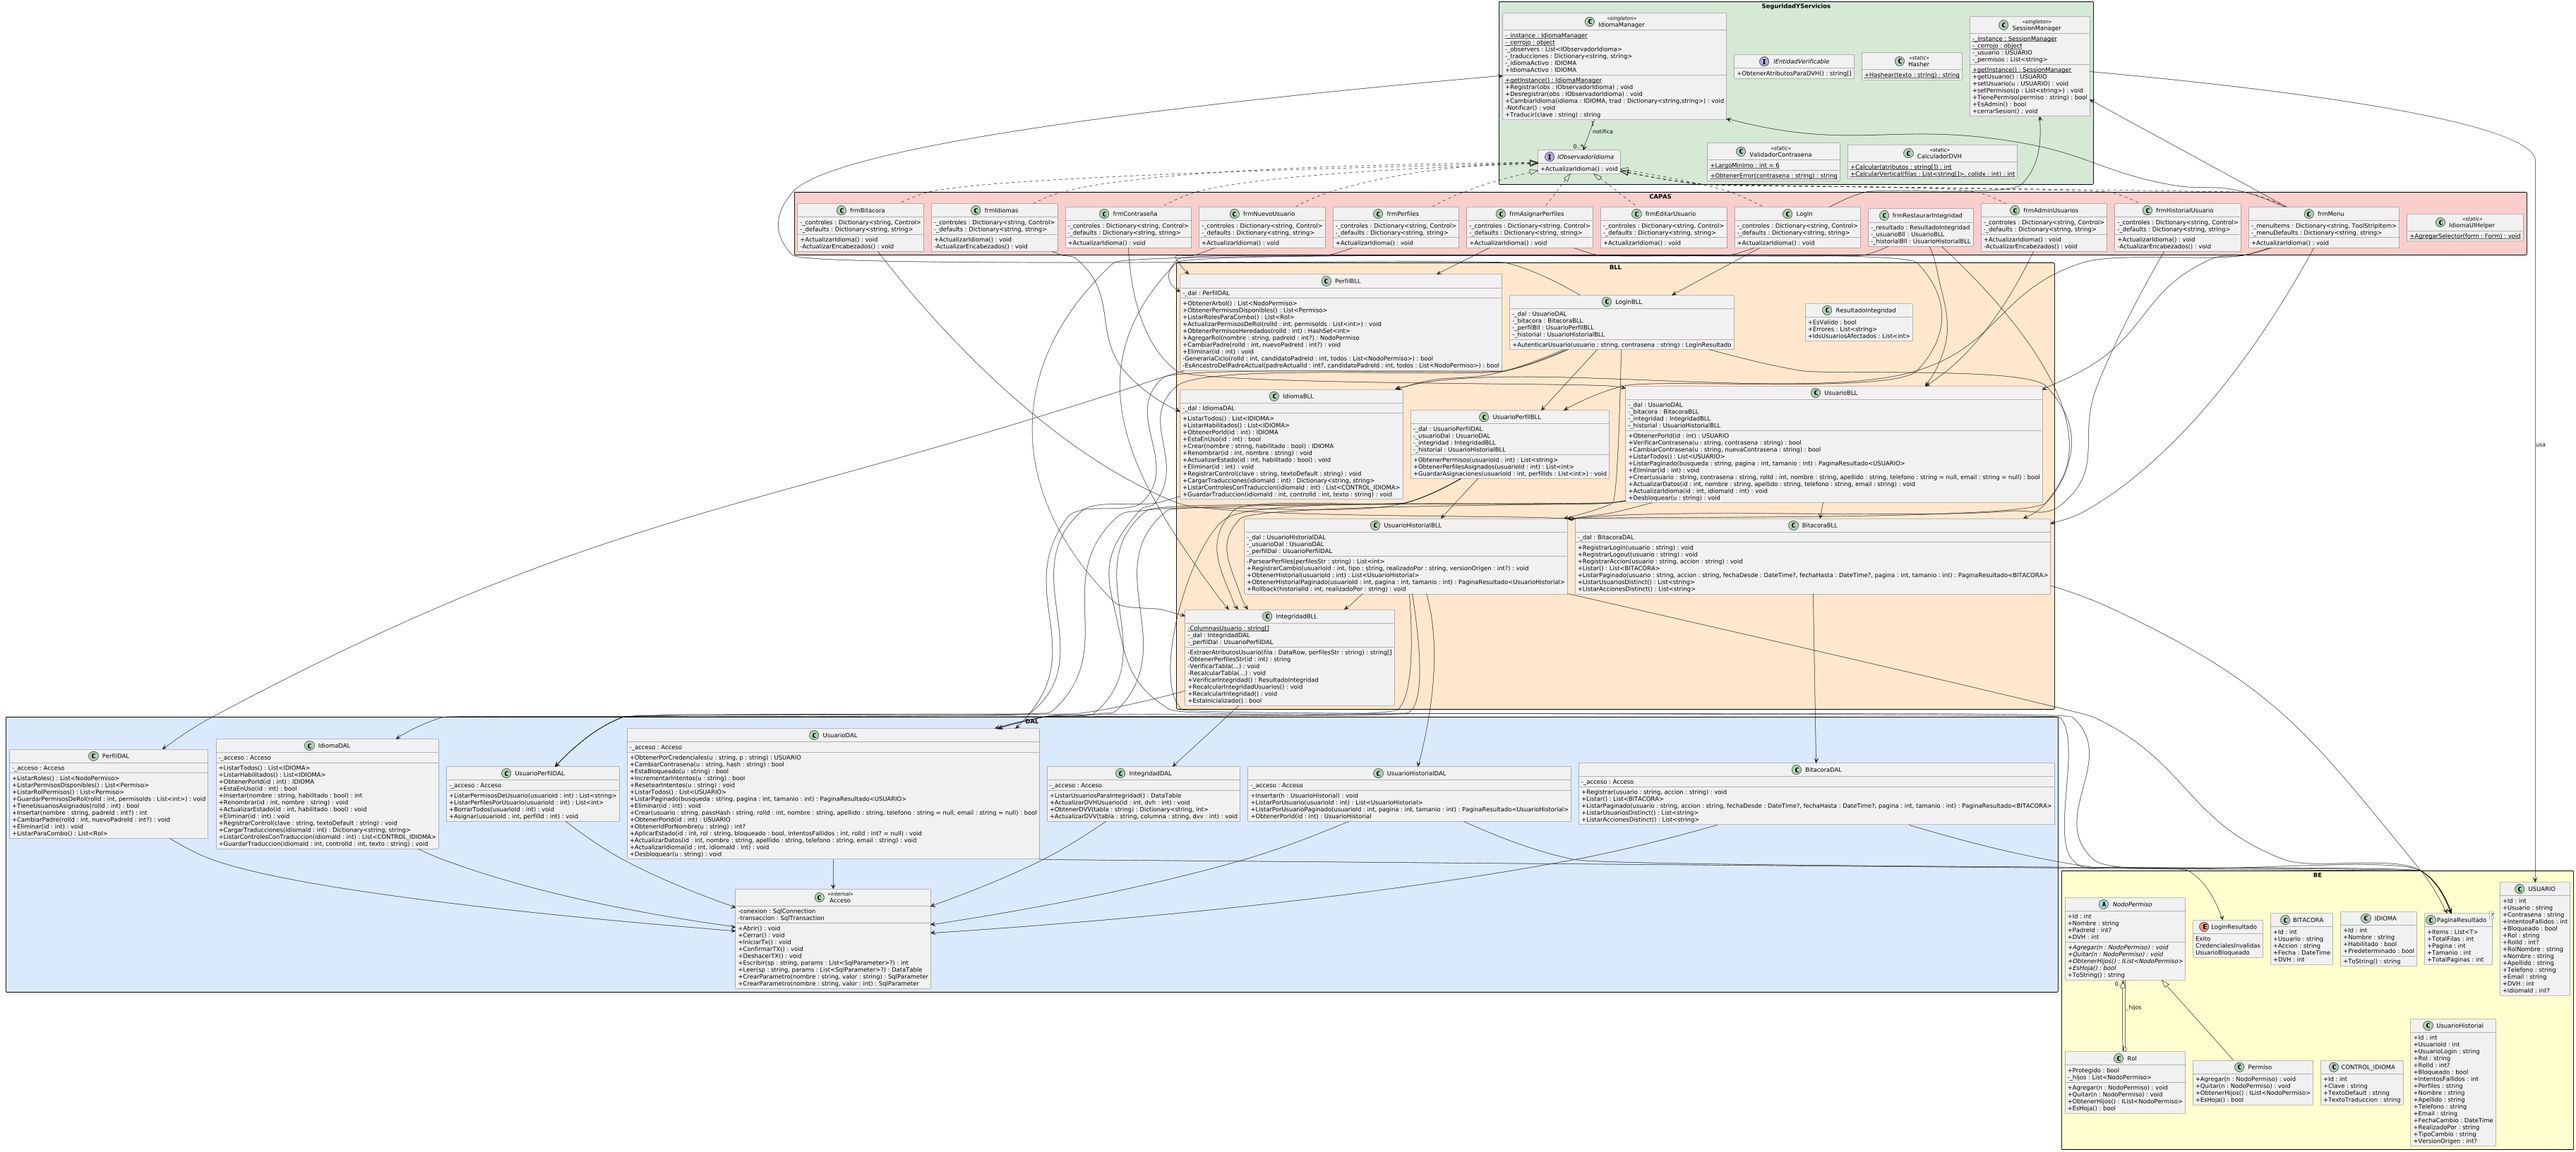
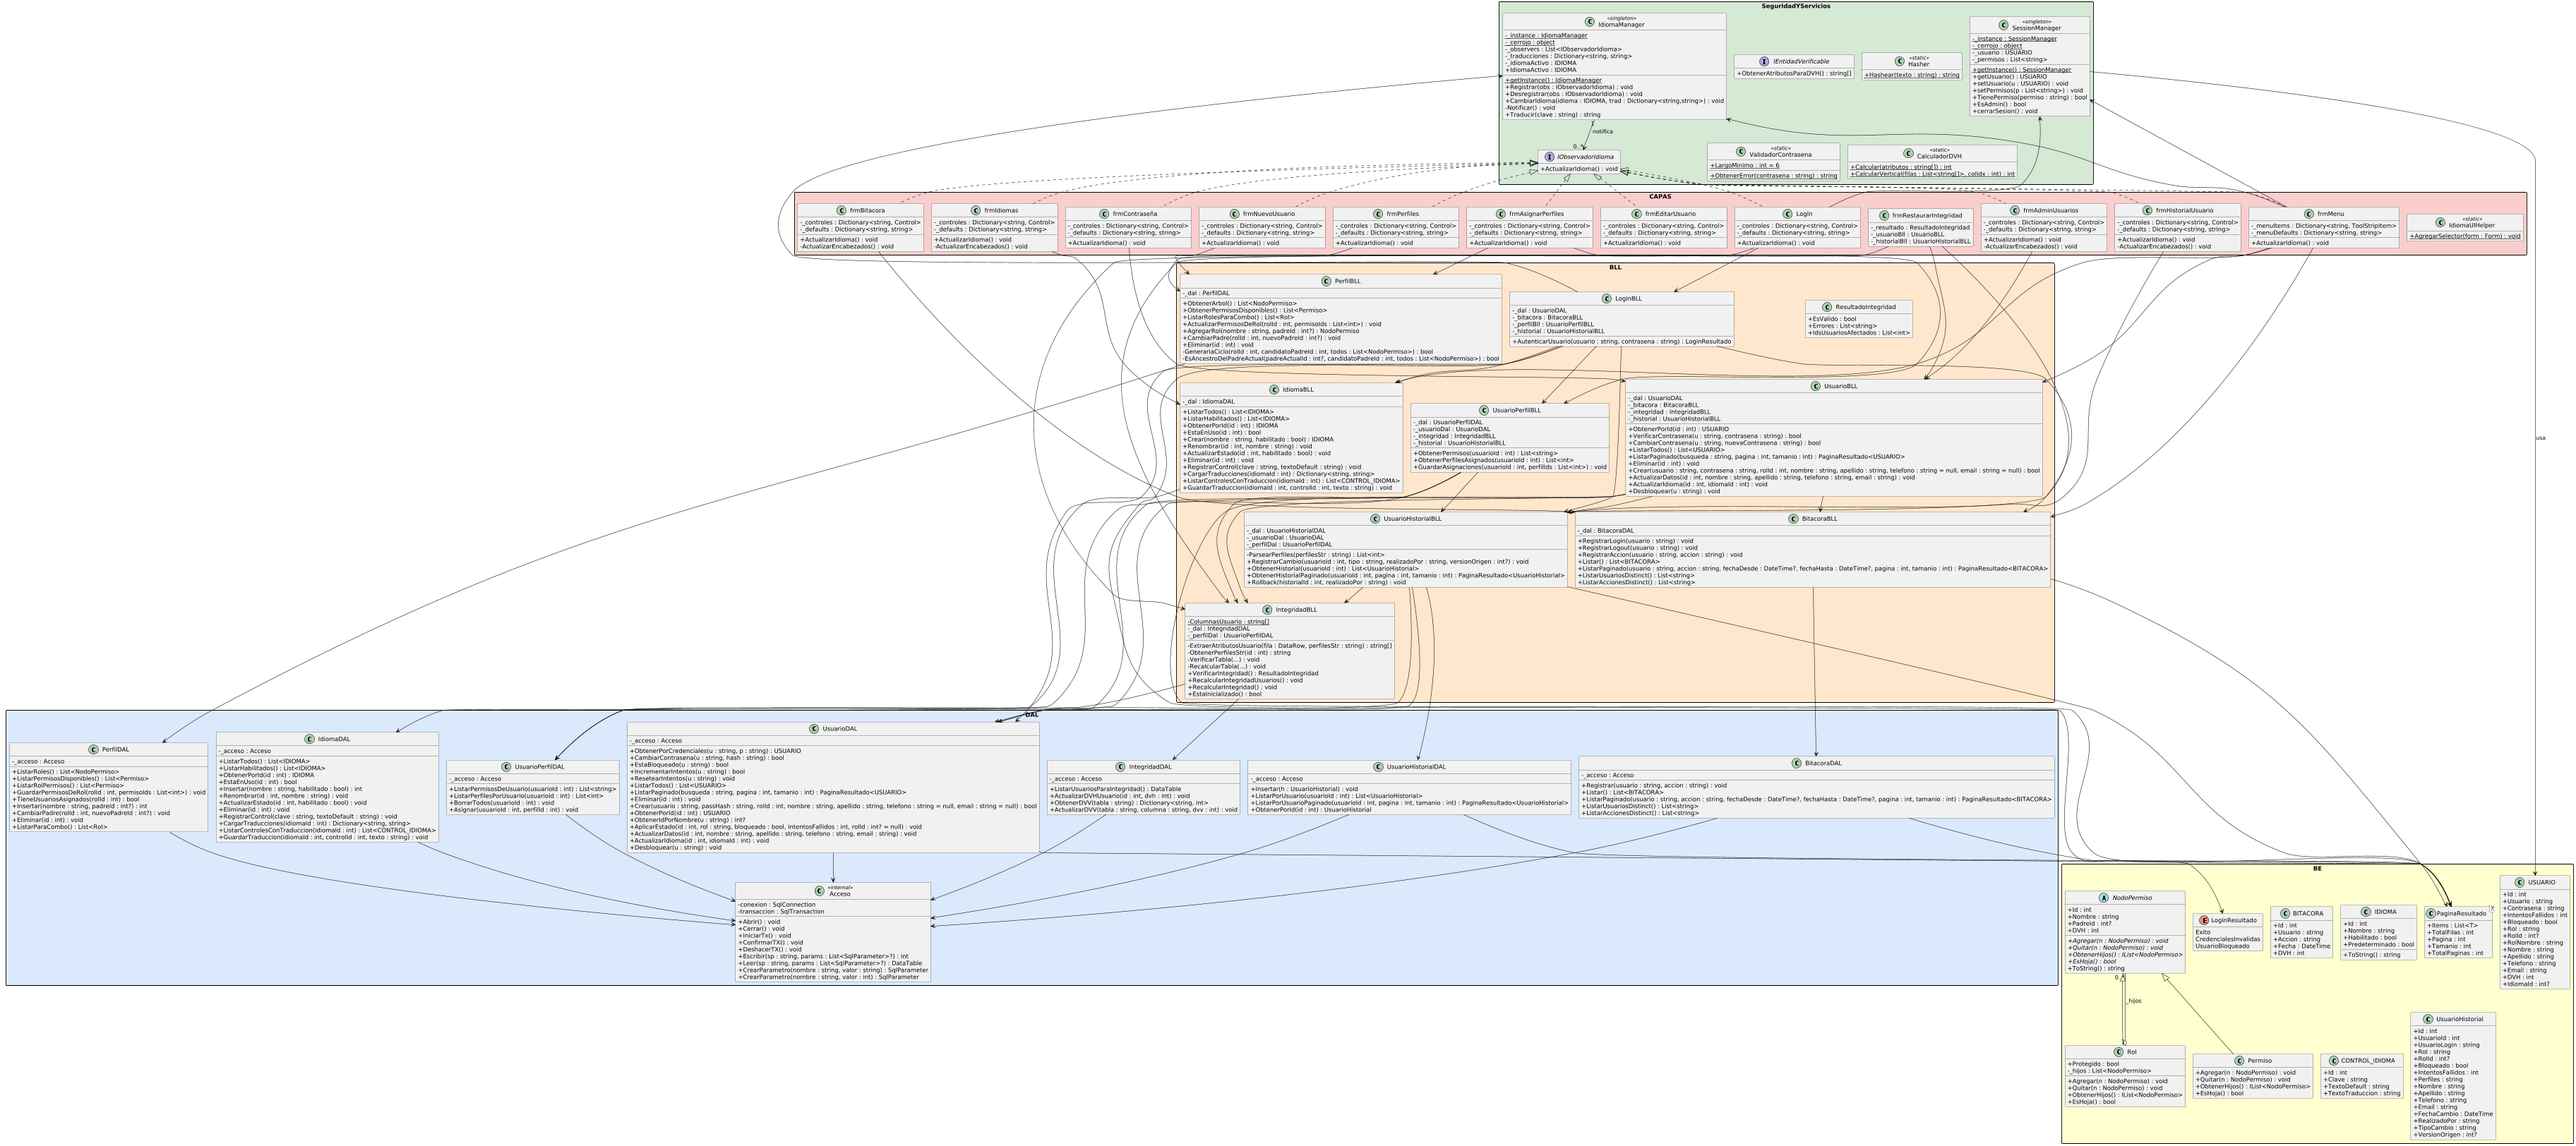
docs: actualiza diagramas y CLAUDE.md tras eliminar herencia de permisos
DiagramaClases.puml/png: saca ObtenerPermisosHeredados de PerfilBLL.
DiagramaSecuencia_CU15: simplifica el flujo (ya no calcula heredados
ni los pinta gris/deshabilitados). CU-15 sigue siendo el mismo caso
de uso, solo con el flujo interno más corto.

De paso corrige una referencia legacy a NODO_PERMISO en la
postcondición de CU-14 (ahora es ROL).

diff --git a/DIAGRAMAS/generar_casos_uso_docx.py b/DIAGRAMAS/generar_casos_uso_docx.py
@@ -937,7 +937,7 @@ CUS = [
             "El padre candidato no es un ancestro por encima del padre actual del rol.",
         ],
         "postcondiciones_exito": [
-            "El rol queda con su nuevo PADRE_ID en NODO_PERMISO.",
+            "El rol queda con su nuevo PADRE_ID en ROL.",
             "El árbol se refresca y muestra la nueva jerarquía.",
         ],
         "postcondiciones_fallo": [

diff --git a/CLAUDE.md b/CLAUDE.md
@@ -105,7 +105,7 @@ The many-to-many link between roles and permissions lives in `ROL_PERMISO (ROL_I
 
 `frmPerfiles.PopularComboPadre` mirrors rule 1 by excluding the role's subtree (`RecolectarDescendientes`) from the combo entirely. Rule 2's targets — ancestors above the current parent (`RecolectarAncestrosSuperiores`, stored in `_padresDeshabilitados`) — remain visible in the combo but are rendered grayed-out (`cboPadre_DrawItem`, `OwnerDrawFixed`) and cannot be selected (`cboPadre_SelectedIndexChanged` reverts to `_cboPadreIndiceAnterior`). The SP `ROL_CAMBIAR_PADRE` does a plain `UPDATE ROL SET PADRE_ID`.
 
-**Inherited permissions (CU-15)** — `PerfilBLL.ObtenerPermisosHeredados(rolId)` walks the parent chain upward (via `ListarRoles()`/`PadreId`) and collects every `Permiso.Id` already granted (in `ROL_PERMISO`, via `ListarRolPermisos()`) to any ancestor role. In `frmPerfiles.PopularCheckPermisos`, those IDs are stored in `_permisosHeredados` and the corresponding item is added unchecked; `chkPermisos_DrawItem` (owner-draw, `CheckBoxState.*Disabled`) then renders it as unchecked-and-disabled, since it's already implicitly granted via inheritance and shouldn't be toggled for the child role. `chkPermisos_ItemCheck` forces `NewValue = Unchecked` for heredados so the user cannot check them, and `Guardar` skips any heredado ID when collecting `seleccionados` as an extra safeguard, so they are never written as a duplicate `ROL_PERMISO` row for the child role.
+**No permission inheritance** — `ROL.PADRE_ID` is purely organizational: it controls how roles are nested in the tree shown by `frmPerfiles` (via `PerfilBLL.ObtenerArbol()`), nothing else. A role's actual permissions are exactly its own rows in `ROL_PERMISO` — never a parent's. `USUARIO_PERMISOS_LISTAR` looks up permissions directly from `USUARIO_PERFIL → ROL_PERMISO → PERMISO` for the user's own assigned role(s), with no walk up `PADRE_ID`. This was previously CU-15 ("inherited permissions"), removed after it caused a privilege-escalation bug: a role accidentally parented under `Administrador` silently inherited all of its permissions. `chkPermisos` in `frmPerfiles` renders with default (non-owner-draw) checkboxes — checked state reflects only the role's own `ROL_PERMISO` rows.
 
 **Role deletion guards** — `PerfilBLL.Eliminar` enforces two rules before calling the DAL, throwing `InvalidOperationException` for each:
 1. `Rol.Protegido == true` → system role, cannot be deleted. Currently only *Administrador* (`PROTEGIDO=1`); all other roles default to `PROTEGIDO=0`.
